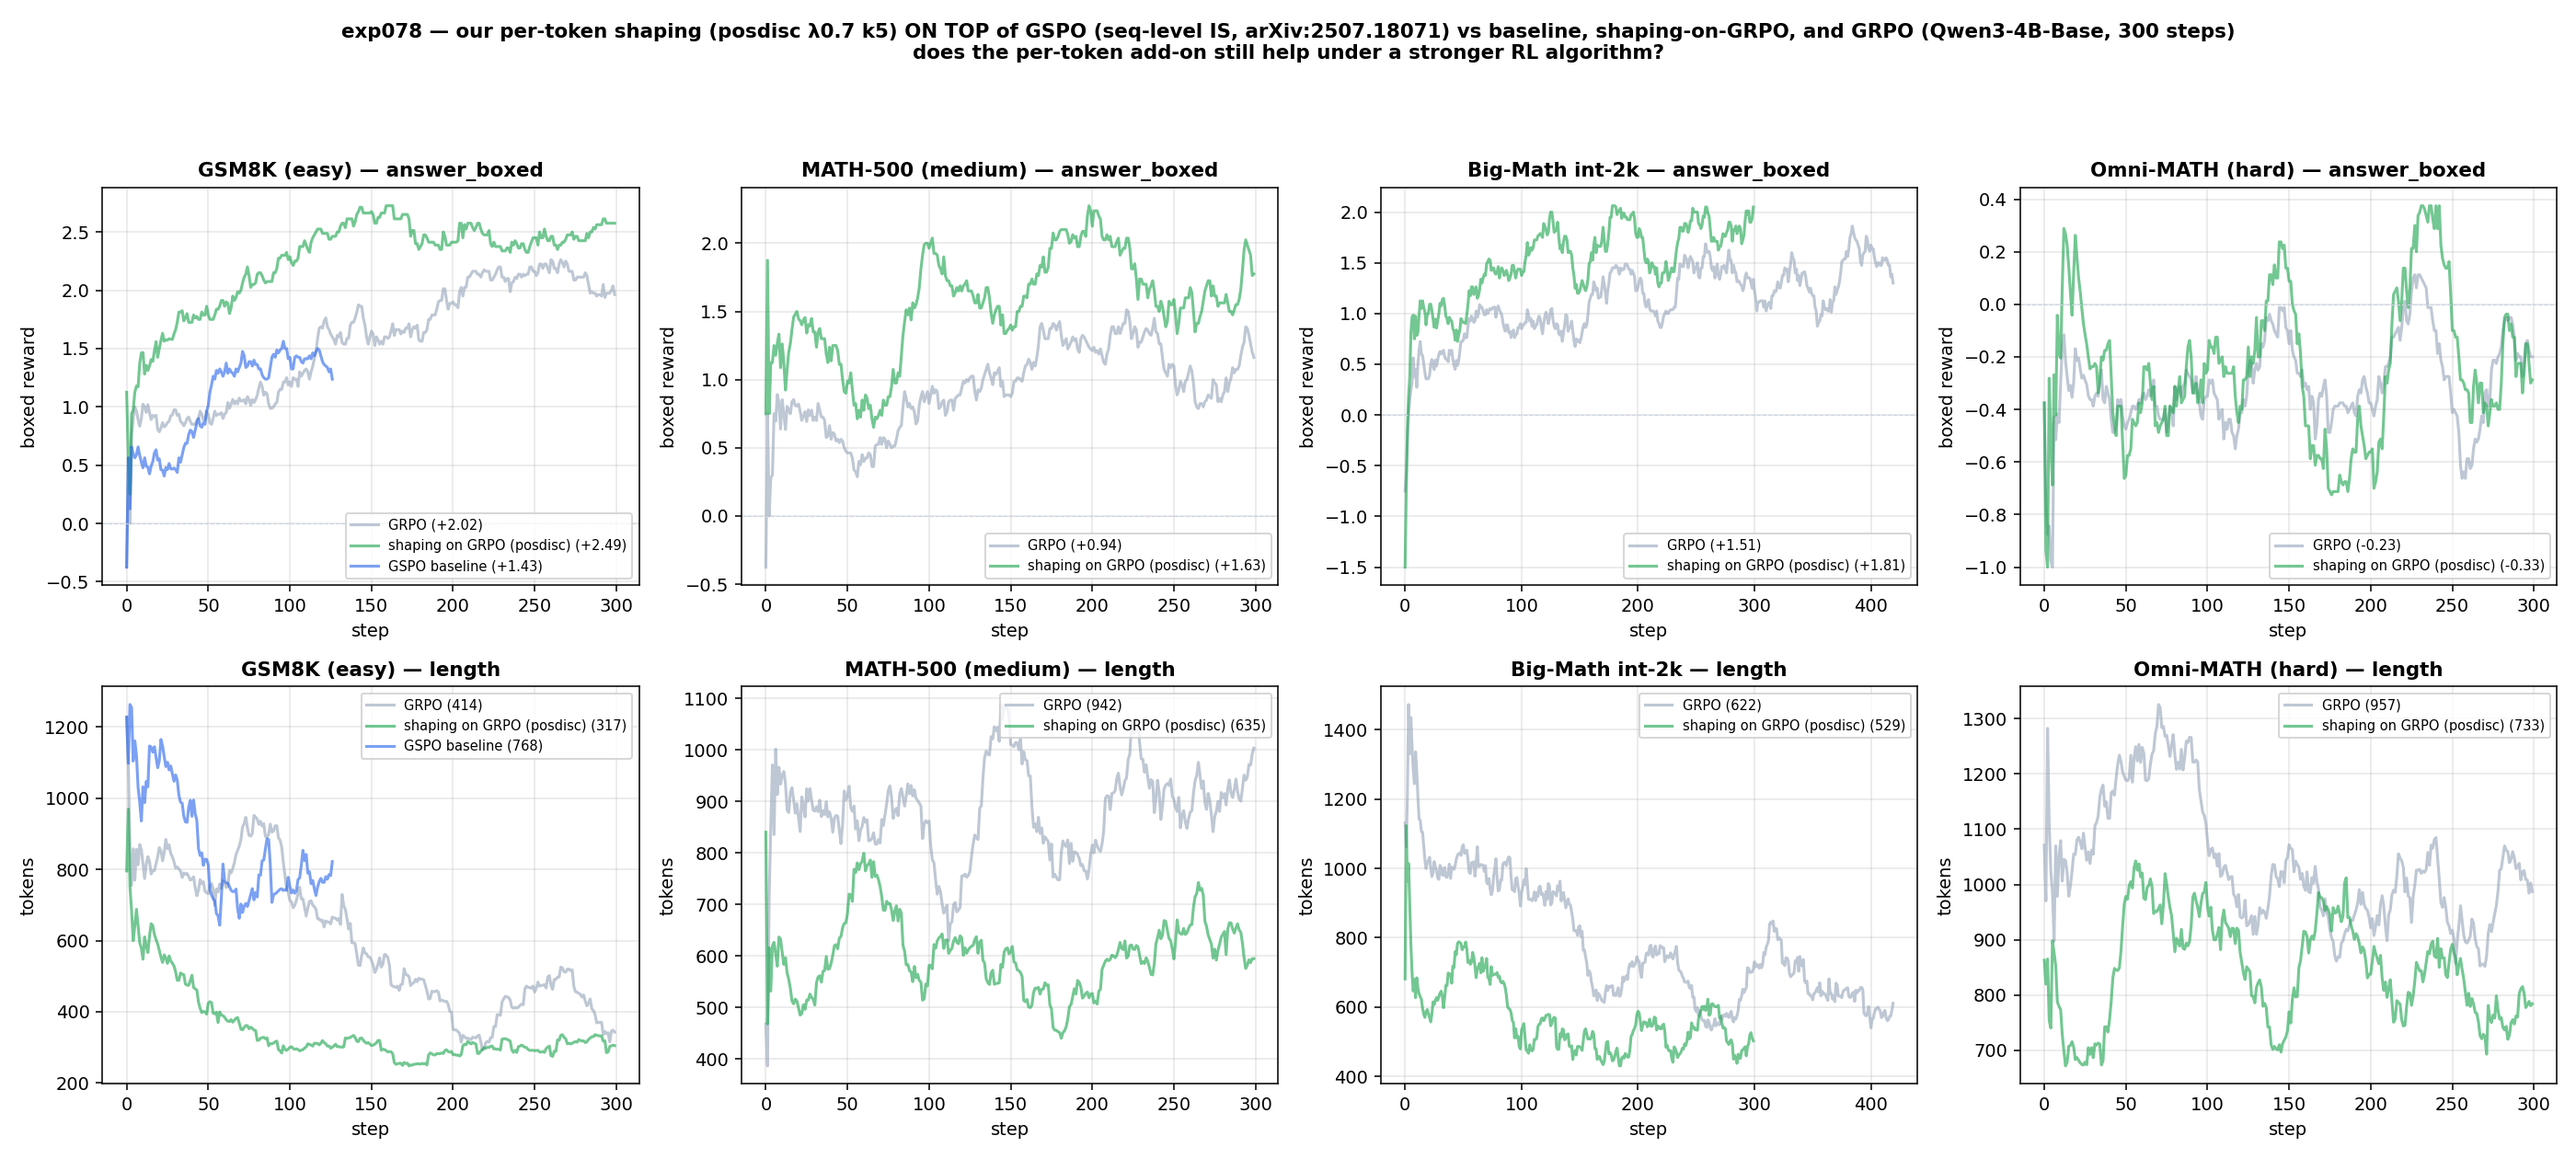
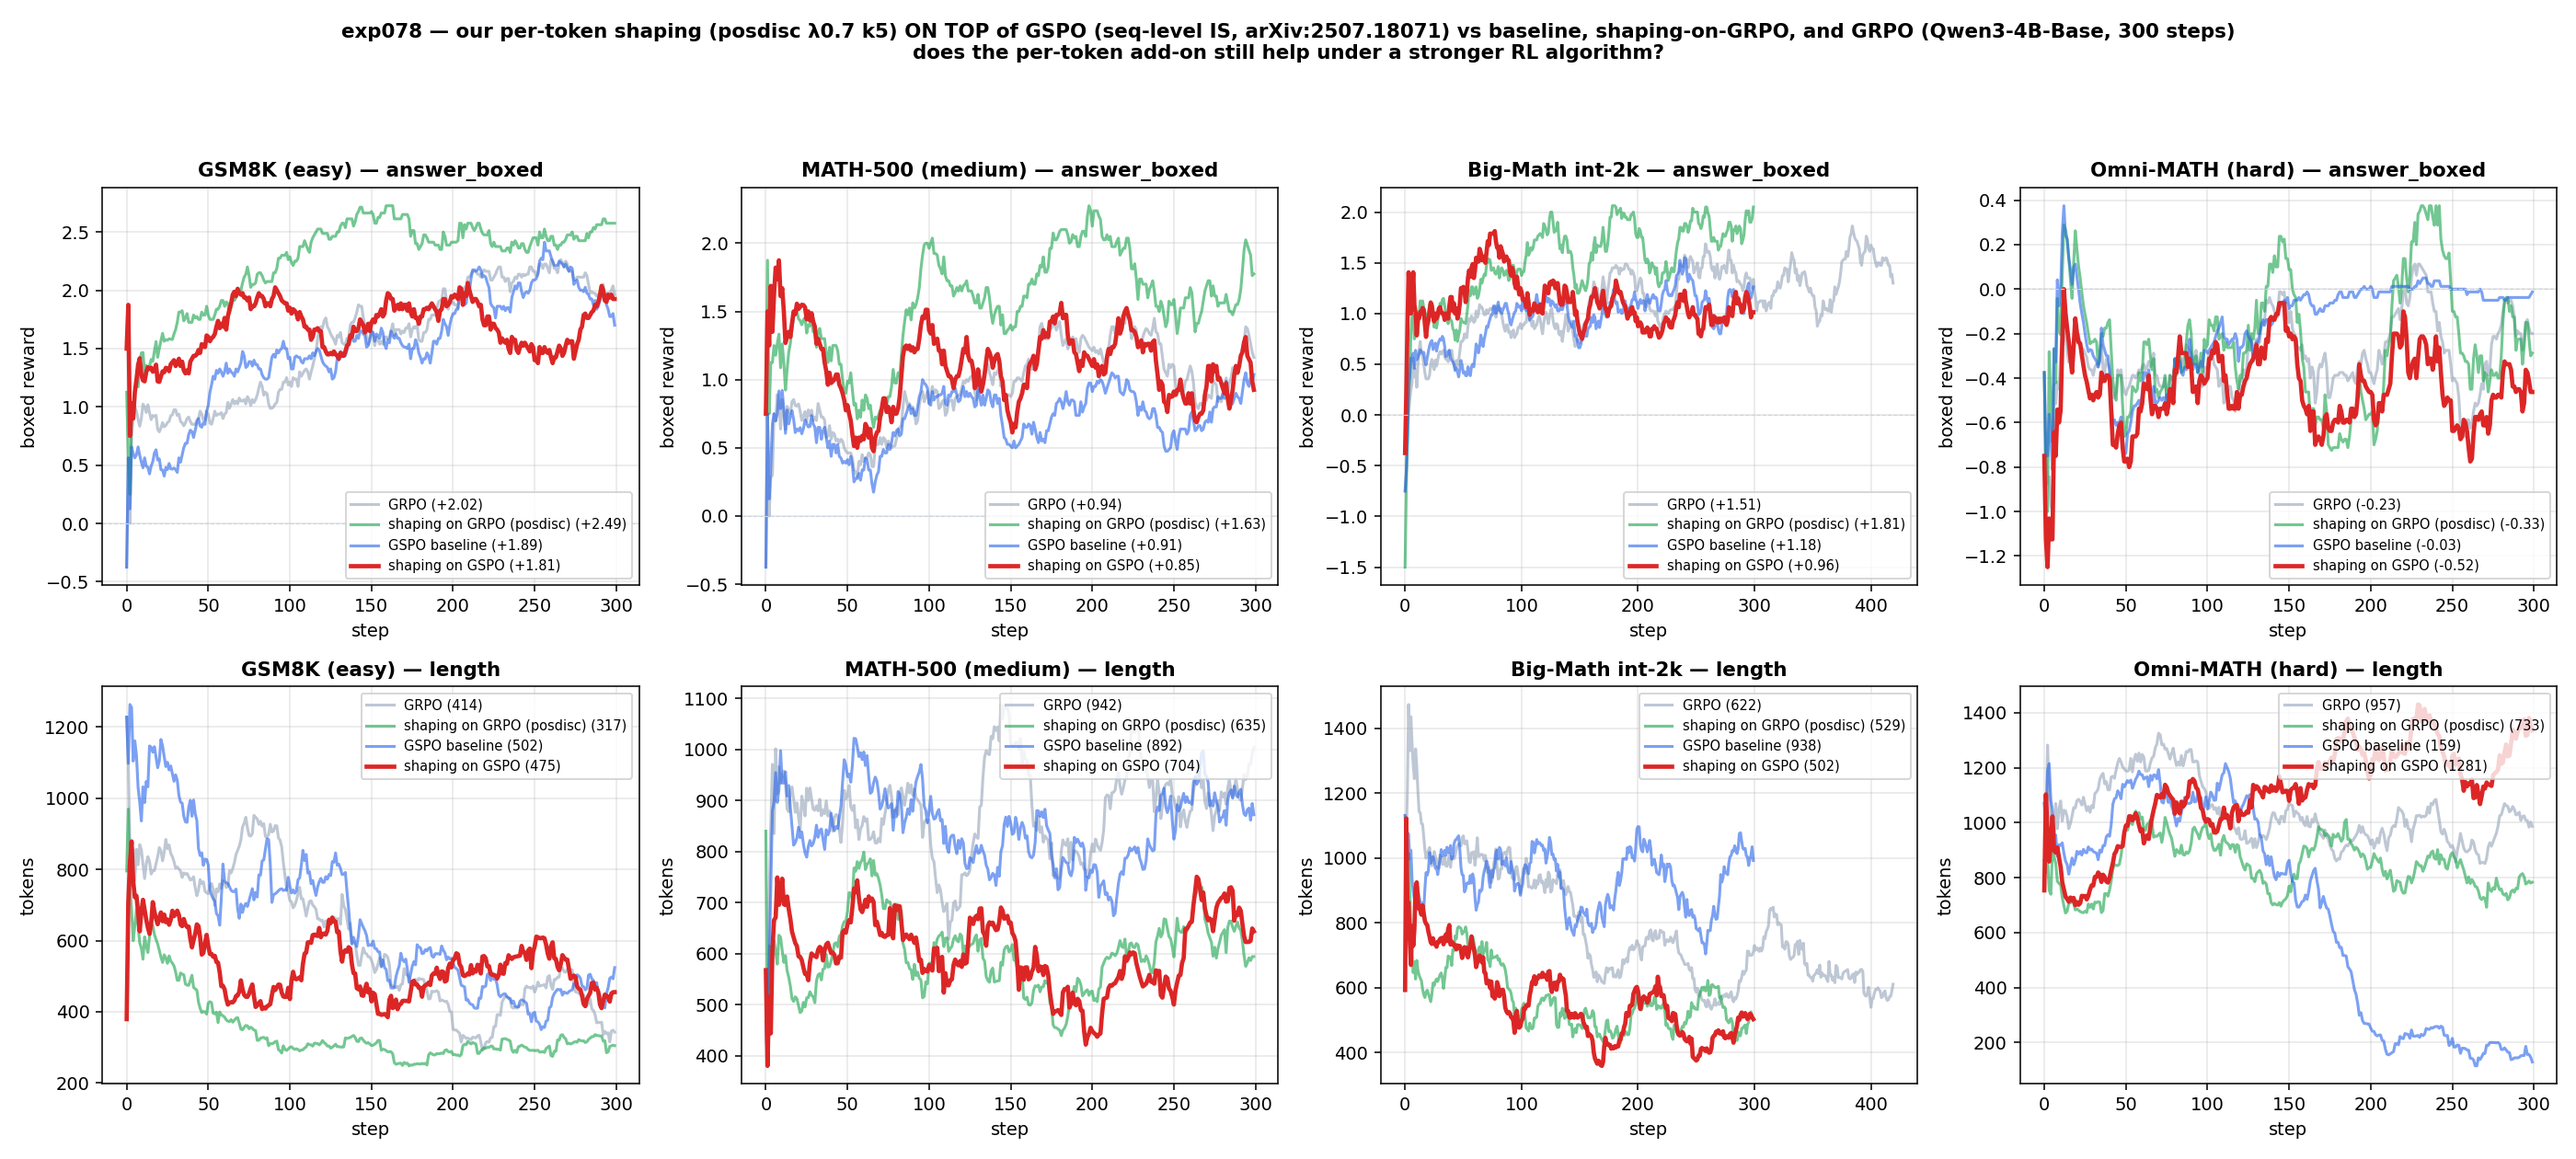
exp_078 GSPO FINAL + exp_079 Dr.GRPO partial: tables + plots
GSPO = mixed: shaping wins peaks on math500/bigmath (4-7x faster to GSPO peak)
but loses gsm8k peak and all L50-finals (Δ -0.08/-0.05/-0.22) -> sequence-level
clip partly resists per-token structure. Dr.GRPO gsm8k (shaped): +2.14 vs +2.06,
115 vs 223 steps (positive, like GRPO/DAPO). math500/bigmath/omnimath running.

diff --git a/analysis/baseline_tables_qwen3-4b-base.md b/analysis/baseline_tables_qwen3-4b-base.md
@@ -21,8 +21,25 @@ Regenerate for any base model by rerunning the same setups and pointing --dirs a
 
 ## vs GSPO (arXiv:2507.18071)
 
-_(exp_078 queued — will be filled when runs complete)_
+| method | GSM8k peak reward | GSM8k min steps to reach baseline's peak reward | MATH-500 peak reward | MATH-500 min steps to reach baseline's peak reward | BigMath Int peak reward | BigMath Int min steps to reach baseline's peak reward |
+|-|-|-|-|-|-|-|
+| Ours (GSPO + shaping) | +2.06 | — | +1.56 | 30 | +1.81 | 62 |
+| GSPO | +2.41 | 257 | +1.05 | 213 | +1.55 | 241 |
+
+_NOTE: GSPO is the mixed case. On peaks, shaping wins big on MATH-500/BigMath (higher peak,
+reaches GSPO's peak ~4–7× faster) but LOSES on GSM8k (peak +2.06 < GSPO +2.41, never reaches
+it — the "—"). At L50-final shaping is marginally below GSPO on all datasets (Δ −0.08/−0.05/
+−0.22). GSPO's tight sequence-level clip (3e-4/4e-4) partly resists per-token advantage
+structure: the shaping accelerates early convergence but the sequence-level IS caps how much
+of the per-token signal survives, so the lead doesn't hold late-run. Honest paper framing:
+the add-on is clearly additive for token-level algorithms (GRPO/DAPO/Dr.GRPO) and
+speed-positive but not final-accuracy-positive for the sequence-level GSPO._
 
 ## vs Dr.GRPO (arXiv:2503.20783)
 
-_(exp_079 queued — will be filled when runs complete)_
+_(baseline done; shaped runs: gsm8k done, math500/bigmath/omnimath still running — partial)_
+
+| method | GSM8k peak reward | GSM8k min steps to reach baseline's peak reward |
+|-|-|-|
+| Ours (Dr.GRPO + shaping) | +2.14 | 115 |
+| Dr.GRPO | +2.06 | 223 |
